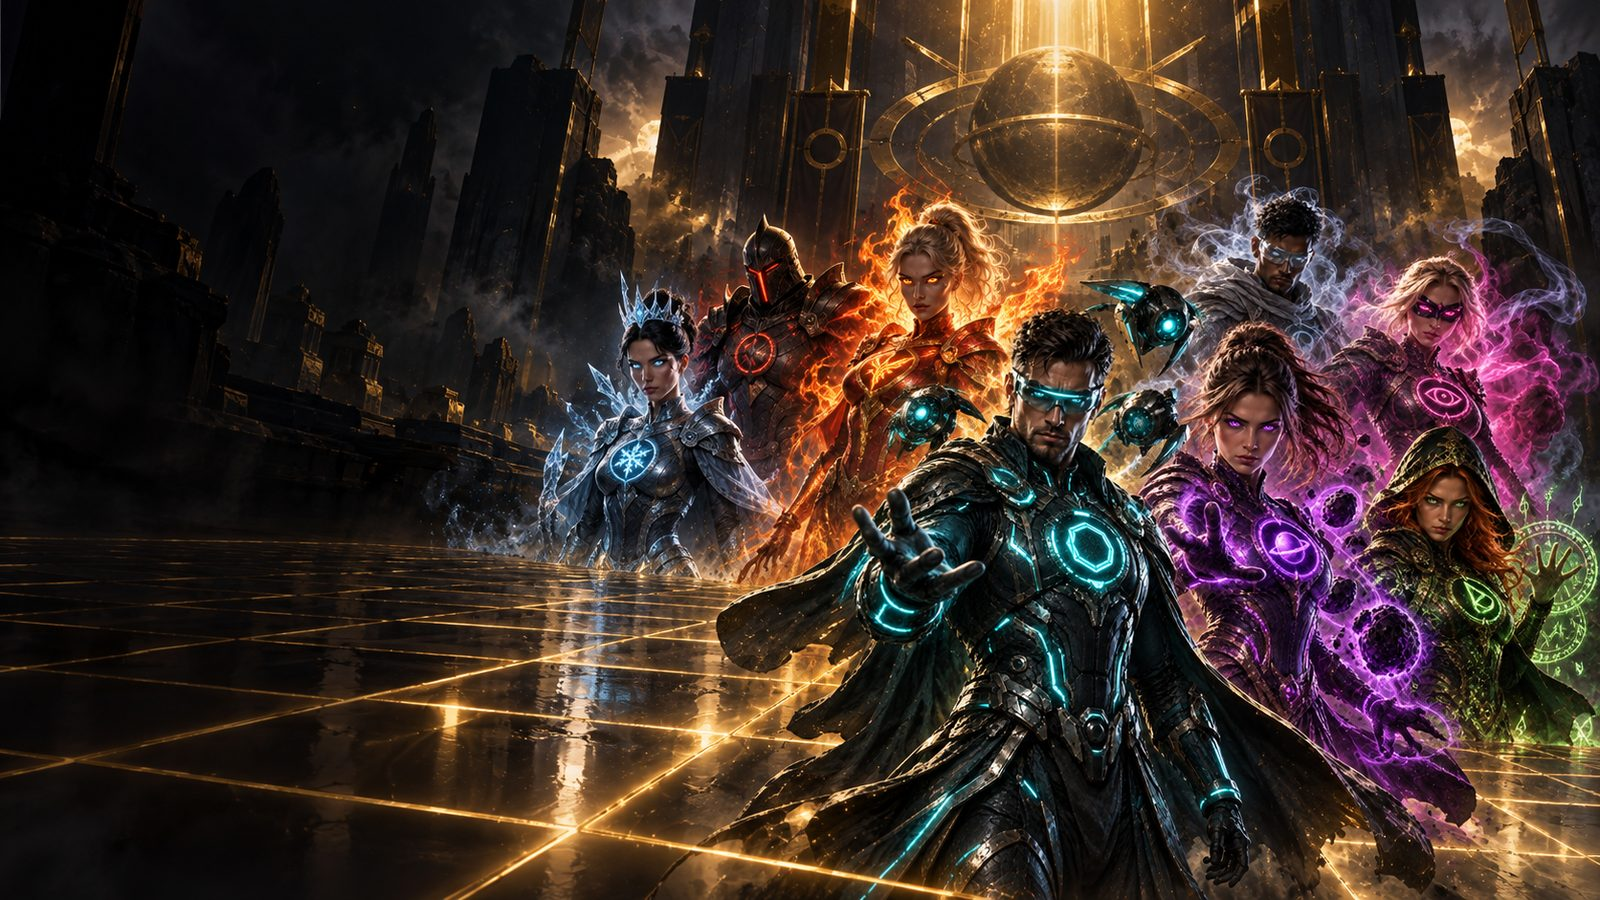
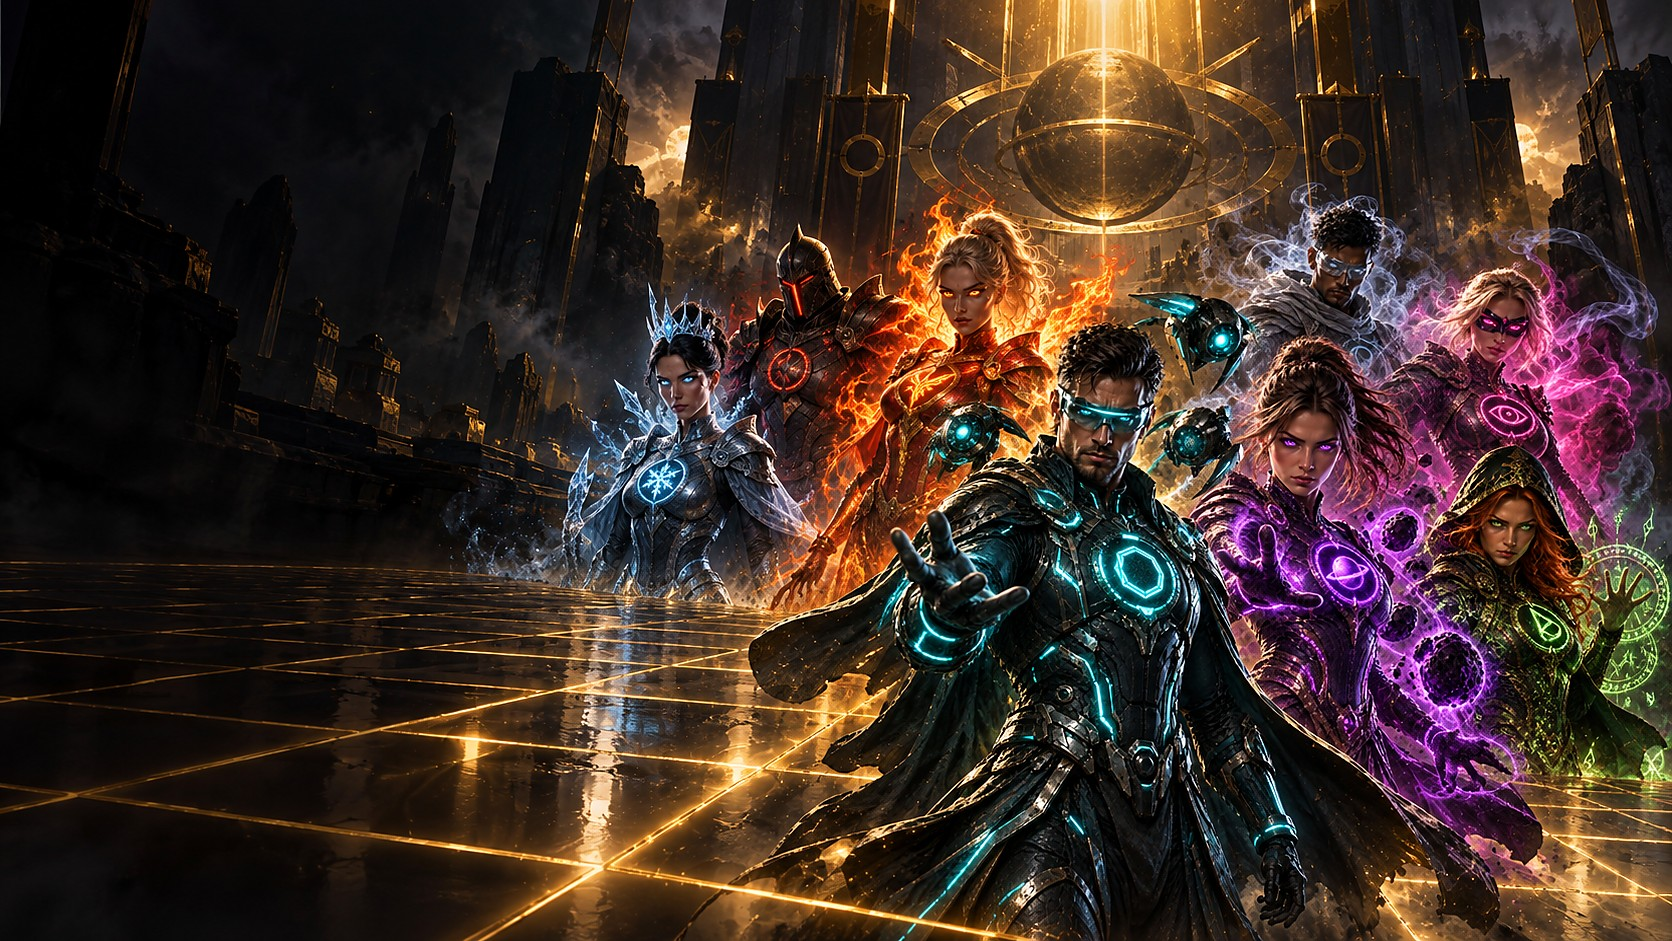
ERA: rename to ЭРА, music per challenge, sharp full-color menu backdrop, wider door rows, armor measured on static body snapshot (start stutter 16-27s -> 4s)

diff --git a/cell-survival/src/managers/Music.js b/cell-survival/src/managers/Music.js
@@ -16,6 +16,23 @@ const PROG = {
 };
 const BPM = { menu: 70, game: 96, final: 84 };
 
+// Свой трек у каждого испытания (оператор 26.09: «чтоб менялась под каждый режим»).
+// В «Останови время» и «Бомбе» нет ровной доли — по ней можно было бы считать секунды.
+const TRACKS = {
+  lastcell: { bpm: 96, prog: PROG.game, style: 'game' },
+  doors: { bpm: 58, prog: [[45, 48, 52], [46, 49, 53], [45, 48, 52], [44, 47, 51]], style: 'horror' },
+  time: { bpm: 60, prog: [[50, 53, 57, 60], [48, 52, 55, 59], [46, 50, 53, 57], [45, 48, 52, 55]], style: 'free' },
+  mines: { bpm: 112, prog: [[50, 53, 57], [50, 53, 57], [46, 50, 53], [48, 52, 55]], style: 'march' },
+  memory: { bpm: 84, prog: [[57, 60, 64], [55, 59, 62], [53, 57, 60], [52, 56, 59]], style: 'mystery' },
+  center: { bpm: 72, prog: [[52, 55, 59, 62], [48, 52, 55, 59], [50, 53, 57, 60], [47, 50, 54, 57]], style: 'focus' },
+  unique: { bpm: 92, prog: [[55, 58, 62], [56, 60, 63], [53, 56, 60], [55, 58, 62]], style: 'odd', steps: 14 },
+  shoot: { bpm: 100, prog: [[52, 55, 59], [52, 55, 59], [48, 52, 55], [47, 51, 54]], style: 'western' },
+  bomb: { bpm: 0, prog: [[49, 52, 56], [50, 53, 57], [49, 52, 56], [48, 51, 55]], style: 'fuse' },
+  cards: { bpm: 88, prog: [[50, 53, 57, 60], [55, 59, 62, 65], [48, 52, 55, 59], [45, 49, 52, 55]], style: 'noir', swing: 0.33 },
+  roulette: { bpm: 64, prog: [[45, 48, 52], [45, 48, 51], [44, 48, 51], [45, 48, 52]], style: 'heartbeat' },
+};
+const trackOf = (name) => TRACKS[name] || { bpm: BPM[name], prog: PROG[name], style: name };
+
 export class Music {
   constructor(ctx, out) {
     this.ctx = ctx;
@@ -68,21 +85,85 @@ export class Music {
   schedule() {
     const name = this.track;
     if (!name) return;
-    const spb = 60 / BPM[name] / 4;
+    const tr = trackOf(name);
+    // без ровной доли: длина шага каждый раз чуть другая (0,6…1,4 от средней)
+    const free = tr.bpm === 0 || tr.style === 'free';
+    const spbBase = 60 / (tr.bpm || 76) / 4;
     // после фейда трек снова набирает громкость
     if (this.bus.gain.value < 0.01 && this.ctx.currentTime > this.next) this.bus.gain.setTargetAtTime(1, this.ctx.currentTime, 0.6);
     while (this.next < this.ctx.currentTime + 0.25) {
-      this.note(name, this.step, this.next, spb);
+      const spb = free ? spbBase * (0.6 + Math.random() * 0.8) : spbBase;
+      const swing = tr.swing && this.step % 2 === 1 ? spbBase * tr.swing : 0;
+      this.note(name, this.step, this.next + swing, spbBase, tr);
       this.step += 1;
       this.next += spb;
     }
   }
 
-  note(name, s, t, spb) {
-    const bar = Math.floor(s / 16), beat = s % 16;
-    const prog = PROG[name];
+  note(name, s, t, spb, tr = trackOf(name)) {
+    const steps = tr.steps || 16;
+    const bar = Math.floor(s / steps), beat = s % steps;
+    const prog = tr.prog;
     const chord = prog[bar % prog.length];
-    const barLen = spb * 16;
+    const barLen = spb * steps;
+    const R = Math.random;
+    switch (tr.style) {
+      case 'horror': // «Двери»: низкий гул, стук сердца, расстроенные колокольчики
+        if (beat === 0) { this.pad(chord.map((n) => n - 12), t, barLen * 1.1, 0.05); this.bass(chord[0] - 24, t, barLen, 0.14); }
+        if (beat === 0 || beat === 3) this.drum(t, beat ? 0.35 : 0.55, 42);
+        if (beat % 4 === 2 && R() < 0.35) this.bell(chord[Math.floor(R() * 3)] + 24 + (R() < 0.5 ? 1 : 0), t, 2.2, 0.035);
+        return;
+      case 'free': // «Время»: ни одной ровной доли — подложка и редкие колокольчики в случайные моменты
+        if (beat === 0) this.pad(chord, t, barLen * 1.6, 0.045);
+        if (R() < 0.18) this.bell(chord[Math.floor(R() * chord.length)] + 12 + (R() < 0.3 ? 12 : 0), t, 2.5, 0.035);
+        if (beat === 8 && R() < 0.5) this.bass(chord[0] - 12, t, barLen * 0.8, 0.1);
+        return;
+      case 'march': // «Взрывное поле»: военный марш — дробь, тяжёлые удары, остинато
+        if (beat === 0) this.pad(chord, t, barLen, 0.03);
+        if (beat % 4 === 0) this.drum(t, 0.6, 48);
+        if (beat % 2 === 1 || (bar % 2 === 1 && beat >= 12)) this.hat(t, 0.06);
+        if (beat % 4 === 2) this.bass(chord[0] - 24, t, spb * 1.5, 0.2);
+        if (beat % 8 === 0) this.brass(chord[beat === 0 ? 0 : 2] + 12, t, spb * 3, 0.035);
+        return;
+      case 'mystery': // «Запомни число»: каскад колокольчиков, мягкий бас
+        if (beat === 0) { this.pad(chord, t, barLen, 0.035); this.bass(chord[0] - 12, t, barLen, 0.12); }
+        if (beat % 2 === 0) this.bell(chord[(beat / 2) % chord.length] + 12 + (beat >= 8 ? 12 : 0), t, 1.1, 0.04);
+        if (beat === 12) this.drum(t, 0.3, 60);
+        return;
+      case 'focus': // «Центр»: спокойно, сосредоточенно
+        if (beat === 0) this.pad(chord, t, barLen * 1.05, 0.04);
+        if (beat % 4 === 0) this.pluck(chord[(beat / 4) % chord.length] + 12, t, spb * 3, 0.035);
+        if (beat === 0 && bar % 2 === 0) this.bass(chord[0] - 12, t, barLen, 0.1);
+        return;
+      case 'odd': // «Уникальное число»: размер 7/8 — ритм всё время сбивается
+        if (beat === 0) this.pad(chord, t, barLen, 0.035);
+        if (beat === 0 || beat === 6 || beat === 10) this.drum(t, beat ? 0.35 : 0.55, 55);
+        if (beat % 2 === 0) this.pluck(chord[(beat / 2) % 3] + 12, t, spb * 1.2, 0.045);
+        if (beat % 2 === 1) this.hat(t, 0.03);
+        return;
+      case 'western': // «Стрельба»: гитарный звон с эхом, редкий удар
+        if (beat === 0) { this.pad(chord, t, barLen, 0.025); this.bass(chord[0] - 12, t, barLen * 0.5, 0.14); }
+        if (beat === 0 || beat === 10) this.drum(t, 0.4, 52);
+        if ([0, 3, 6, 8, 11].includes(beat)) { const n = chord[[0, 1, 2, 1, 0][[0, 3, 6, 8, 11].indexOf(beat)]] + 12; this.pluck(n, t, spb * 2, 0.05); this.pluck(n, t + spb * 3, spb * 2, 0.02); }
+        return;
+      case 'fuse': // «Бомба»: нервный гул и случайные удары — ровного тиканья нет
+        if (beat === 0) { this.pad(chord, t, barLen * 1.2, 0.04); this.bass(chord[0] - 24, t, barLen, 0.16); }
+        if (R() < 0.22) this.hat(t, 0.05 + R() * 0.04);
+        if (R() < 0.06) this.drum(t, 0.4, 50);
+        return;
+      case 'noir': // «Очко»: джаз казино — шагающий бас, щётки, септаккорды
+        if (beat === 0) this.pad(chord, t, barLen, 0.03);
+        if (beat % 4 === 0) this.bass(chord[(beat / 4) % chord.length] - 12, t, spb * 3.5, 0.16);
+        if (beat % 2 === 0) this.hat(t, beat % 4 === 2 ? 0.05 : 0.03);
+        if (beat === 6 || beat === 14) this.pluck(chord[3 % chord.length] + 12, t, spb * 2, 0.035);
+        return;
+      case 'heartbeat': // «Рулетка»: удары сердца парами, тянущийся гул
+        if (beat === 0) { this.pad(chord.map((n) => n - 12), t, barLen * 1.1, 0.045); }
+        if (beat === 0 || beat === 2 || beat === 8 || beat === 10) this.drum(t, beat % 8 === 0 ? 0.6 : 0.35, 40);
+        if (bar % 4 === 3 && beat === 12) this.bell(chord[2] + 24, t, 3, 0.03);
+        return;
+      default: break;
+    }
     if (name === 'menu') {
       if (beat === 0) { this.pad(chord, t, barLen * 1.05, 0.05); this.bass(chord[0] - 12, t, barLen, 0.16); }
       if (beat === 0 && bar % 2 === 0) this.drum(t, 0.5, 55);

diff --git a/cell-survival/src/scene/Stage.js b/cell-survival/src/scene/Stage.js
@@ -171,6 +171,18 @@ export class Stage {
     if (sa > ia) { b.repeat.set(1, ia / sa); b.offset.set(0, (1 - ia / sa) / 2); }
     else { b.repeat.set(sa / ia, 1); b.offset.set((1 - sa / ia) * (b.userData.focusX ?? 0.5), 0); }
   }
+  // Экран без 3D (world.cssOnly — главное меню): картинка показывается слоем страницы в полном качестве и цвете,
+  // холст скрыт и не рисуется. (Прозрачный холст поверх картинки в игре ронял частоту до 1–2 кадров.)
+  cssBackdrop() {
+    const url = this.world?.cssOnly ? this.world.cssUrl : '';
+    if (url === this.bgUrl) return !!url;
+    this.bgUrl = url;
+    const st = this.container.style;
+    st.backgroundImage = url ? `url("${url}")` : ''; st.backgroundSize = 'cover'; st.backgroundPosition = `${(this.world?.cssFocusX ?? 0.5) * 100}% 50%`; st.backgroundRepeat = 'no-repeat';
+    this.renderer.domElement.style.visibility = url ? 'hidden' : '';
+    return !!url;
+  }
+
 
   // Автокачество: раз в 2 с смотрим частоту кадров. Меньше 45 — выключаем объёмное затенение,
   // потом снижаем разрешение (до 60%), затем выключаем свечение. Больше 57 долго — возвращаем по шагу. Настройки игрока не трогаем.
@@ -196,7 +208,6 @@ export class Stage {
   }
 
   frame() {
-    this.fitBackground();
     const raw = this.clock.getDelta();
     this.autoTune(raw);
     const dt = Math.min(raw, 0.05);
@@ -205,6 +216,8 @@ export class Stage {
     if (!this.world) return;
     updateAvatars(dt, this.world.scene);
     this.world.update?.(dt, t);
+    if (this.cssBackdrop()) return; // меню: только картинка, 3D не рисуется
+    this.fitBackground();
     this.composer.render(dt);
   }
 }

diff --git a/cell-survival/src/managers/armor.js b/cell-survival/src/managers/armor.js
@@ -78,7 +78,17 @@ export function addArmor(heroId, person) {
   const B = (n) => person.getObjectByName(n);
   const wp = (o) => o.getWorldPosition(new THREE.Vector3());
   person.updateMatrixWorld(true);
-  const meshes = []; person.traverse((o) => { if (o.isSkinnedMesh) meshes.push(o); });
+  // Лучи — по неподвижной копии тела (вершины со скелетом считаются один раз): луч по «живой» модели
+  // пересчитывает скелет на каждый треугольник — десятки лучей на героя давали секунды рывков в начале испытания.
+  const meshes = [];
+  person.traverse((o) => {
+    if (!o.isSkinnedMesh) return;
+    const g = o.geometry, n = g.attributes.position.count, arr = new Float32Array(n * 3), v = new THREE.Vector3();
+    for (let i = 0; i < n; i++) { o.getVertexPosition(i, v); v.applyMatrix4(o.matrixWorld); arr[i * 3] = v.x; arr[i * 3 + 1] = v.y; arr[i * 3 + 2] = v.z; }
+    const sg = new THREE.BufferGeometry(); sg.setAttribute('position', new THREE.BufferAttribute(arr, 3)); if (g.index) sg.setIndex(g.index);
+    const m = new THREE.Mesh(sg, new THREE.MeshBasicMaterial({ side: THREE.DoubleSide })); m.updateMatrixWorld(true);
+    meshes.push(m);
+  });
   const up = new THREE.Vector3(0, 1, 0);
   const la = B('Bip01_L_UpperArm'), ra = B('Bip01_R_UpperArm');
   const fwd = new THREE.Vector3().crossVectors(wp(ra).sub(wp(la)).setY(0), up).normalize();
@@ -204,5 +214,6 @@ export function addArmor(heroId, person) {
     const gem = new THREE.Mesh(new THREE.SphereGeometry(0.012, 10, 8), M.glow); gem.position.copy(fwd.clone().multiplyScalar(r + 0.012)); g.add(gem);
     attach(pelvis, g);
   }
+  meshes.forEach((m) => m.geometry.dispose());
   return { chestFront };
 }

diff --git a/cell-survival/src/team/views/field.js b/cell-survival/src/team/views/field.js
@@ -406,7 +406,7 @@ export class DoorsView extends BaseView {
     for (let i = 0; i < n; i++) {
       const row = Math.floor(i / perRow), col = i % perRow;
       const inRow = row === 0 ? Math.min(perRow, n) : n - perRow;
-      const x = (col - (inRow - 1) / 2) * gap, z = -row * 2.6;
+      const x = (col - (inRow - 1) / 2) * gap, z = -row * 3.8; // второй ряд дальше (оператор 26.09)
       const d = new THREE.Group(); d.position.set(x, 0, z);
       const post = new THREE.BoxGeometry(0.12, 2.15, 0.2);
       const put = (m, x, y) => { m.position.set(x, y, 0); m.castShadow = true; d.add(m); };
@@ -437,8 +437,8 @@ export class DoorsView extends BaseView {
     // отъезд так, чтобы ряд дверей влез по ширине экрана (важно для телефона в портрете)
     const aspect = innerWidth / innerHeight, halfTan = Math.tan((this.world.camera.fov / 2) * Math.PI / 180);
     const z = Math.max(width * 0.72 + 3.8 + rows, (width * 1.1) / (2 * halfTan * aspect) + rows);
-    this.world.camBase.set(0, 3.2 + rows * 1.2 + (z - 8) * 0.25, z);
-    this.world.camLook.set(0, 1.0, -(rows - 1) * 1.3);
+    this.world.camBase.set(0, 3.2 + rows * 1.5 + (z - 8) * 0.25, z);
+    this.world.camLook.set(0, 1.0, -(rows - 1) * 1.9);
     this.round = st.round;
   }
   async onDoor(d) {

diff --git a/cell-survival/src/main.js b/cell-survival/src/main.js
@@ -2,7 +2,7 @@ import { GameManager } from './managers/GameManager.js';
 
 const boot = document.createElement('div');
 boot.id = 'boot';
-boot.innerHTML = '<div style="text-align:center"><h1 class="title" style="font-size:42px">Cell Survival</h1><div class="bar"><i></i></div></div>';
+boot.innerHTML = '<div style="text-align:center"><h1 class="title" style="font-size:64px;letter-spacing:.2em">ЭРА</h1><div class="bar"><i></i></div></div>';
 document.body.appendChild(boot);
 
 try {
@@ -10,7 +10,7 @@ try {
 } catch (e) {
   // Нет WebGL (старая видеокарта, отключено ускорение или браузер заблокировал после сбоя)
   boot.innerHTML = `<div style="text-align:center;max-width:520px;padding:24px">
-    <h1 class="title" style="font-size:36px">Cell Survival</h1>
+    <h1 class="title" style="font-size:48px;letter-spacing:.2em">ЭРА</h1>
     <p class="label" style="margin-top:20px;line-height:1.8">Не удалось запустить 3D-графику (WebGL).<br>
     Перезапустите браузер и проверьте, что включено аппаратное ускорение.</p></div>`;
   console.error(e);

diff --git a/cell-survival/src/styles.css b/cell-survival/src/styles.css
@@ -260,3 +260,6 @@ input[type=range]::-webkit-slider-thumb { -webkit-appearance: none; width: 18px;
 .banner.red .band::before, .banner.green .band::before { content: ''; display: block; width: 84px; height: 84px; margin: 0 auto 6px; background: var(--img-icon-skull) center/contain no-repeat; filter: drop-shadow(0 0 16px rgba(255,59,59,.6)); animation: pop .5s var(--ease) both; }
 .banner.green .band::before { background-image: var(--img-icon-star); filter: drop-shadow(0 0 16px rgba(217,178,95,.6)); }
 @media (max-width: 760px) { .banner.red .band::before, .banner.green .band::before { width: 56px; height: 56px; } }
+
+/* название игры «ЭРА» (26.09) */
+#menu .brand .title.era { font-size: clamp(72px, 11vw, 168px); letter-spacing: .18em; line-height: 1; filter: drop-shadow(0 0 28px rgba(217,178,95,.45)); }

diff --git a/cell-survival/src/scene/worlds.js b/cell-survival/src/scene/worlds.js
@@ -32,6 +32,8 @@ export class MenuWorld {
     this.camera.position.set(0, 1.2, 8);
     this.bloom = 0.9;
     this.scene.background = gradientTexture([[0, '#050409'], [0.55, '#140c1f'], [0.8, '#2a1606'], [1, '#050302']]);
+    // главное меню — только нарисованная картинка слоем страницы (Stage.cssBackdrop): чётко и в полном цвете
+    this.cssOnly = true; this.cssUrl = `${ASSETS}menu/background.jpg${ART_V}`; this.cssFocusX = 0.55;
     new THREE.TextureLoader().load(`${ASSETS}menu/background.jpg${ART_V}`, (tx) => {
       tx.colorSpace = THREE.SRGBColorSpace;
       tx.userData.cover = true;

diff --git a/hub/public/menu.html b/hub/public/menu.html
@@ -78,8 +78,8 @@
         <p>Онлайн-покер за одним столом с друзьями</p>
       </a>
       <a class="card" href="/cell/">
-        <div class="art"><img src="/cell/assets/modes/single.jpg" alt="" onerror="this.style.display='none'" /></div>
-        <b>Cell Survival</b>
+        <div class="art"><img src="/cell/assets/modes/single.jpg?v=4" alt="" onerror="this.style.display='none'" /></div>
+        <b>ЭРА</b>
         <p>Выбери клетку и переживи обрушение — остаться должен один</p>
       </a>
       <a class="card" href="/dressup/">

diff --git a/cell-survival/index.html b/cell-survival/index.html
@@ -4,7 +4,7 @@
   <meta charset="UTF-8" />
   <meta name="viewport" content="width=device-width, initial-scale=1.0, maximum-scale=1, viewport-fit=cover" />
   <meta name="theme-color" content="#050409" />
-  <title>Cell Survival</title>
+  <title>ЭРА</title>
   <link rel="preconnect" href="https://fonts.googleapis.com" />
   <link rel="preconnect" href="https://fonts.gstatic.com" crossorigin />
   <link href="https://fonts.googleapis.com/css2?family=Cinzel:wght@500;700;900&family=Rajdhani:wght@400;500;600;700&display=swap" rel="stylesheet" />

diff --git a/cell-survival/src/team/MatchView.js b/cell-survival/src/team/MatchView.js
@@ -86,6 +86,7 @@ export class MatchView {
     const theme = THEME_IDS.includes(pref) ? pref : THEME_IDS[Math.floor(Math.random() * THEME_IDS.length)];
     this.view = new View({ game: this.game, stage: this.game.stage, root: this.stageEl, audio: this.game.audio, act: (a) => this.session.act(a), myId: this.myId, theme, hint: (s) => this.setHint(s), mv: this });
     this.view.enter(st);
+    this.game.audio.playMusic(st.cid); // у каждого испытания своя музыка (Music.js, TRACKS)
   }
 
   onPhase(st, me) {

diff --git a/cell-survival/src/paths.js b/cell-survival/src/paths.js
@@ -1,4 +1,4 @@
 // Все картинки и модели — от базового пути сборки (/cell/ на сайте), а не от корня домена.
 export const ASSETS = `${import.meta.env.BASE_URL}assets/`;
 // Версия картинок: картинки кэшируются браузером на 7 дней — при замене файла увеличить, иначе игроки видят старые.
-export const ART_V = '?v=3';
+export const ART_V = '?v=4';

diff --git a/cell-survival/src/managers/MenuManager.js b/cell-survival/src/managers/MenuManager.js
@@ -16,7 +16,7 @@ export class MenuManager {
     s.innerHTML = `
       <div class="brand stagger">
         <div class="kicker">Hand Forge presents</div>
-        <h1 class="title">Cell<br>Survival</h1>
+        <h1 class="title era">ЭРА</h1>
         <div class="label sub">${t('tagline')}</div>
       </div>
       <nav class="stagger">
